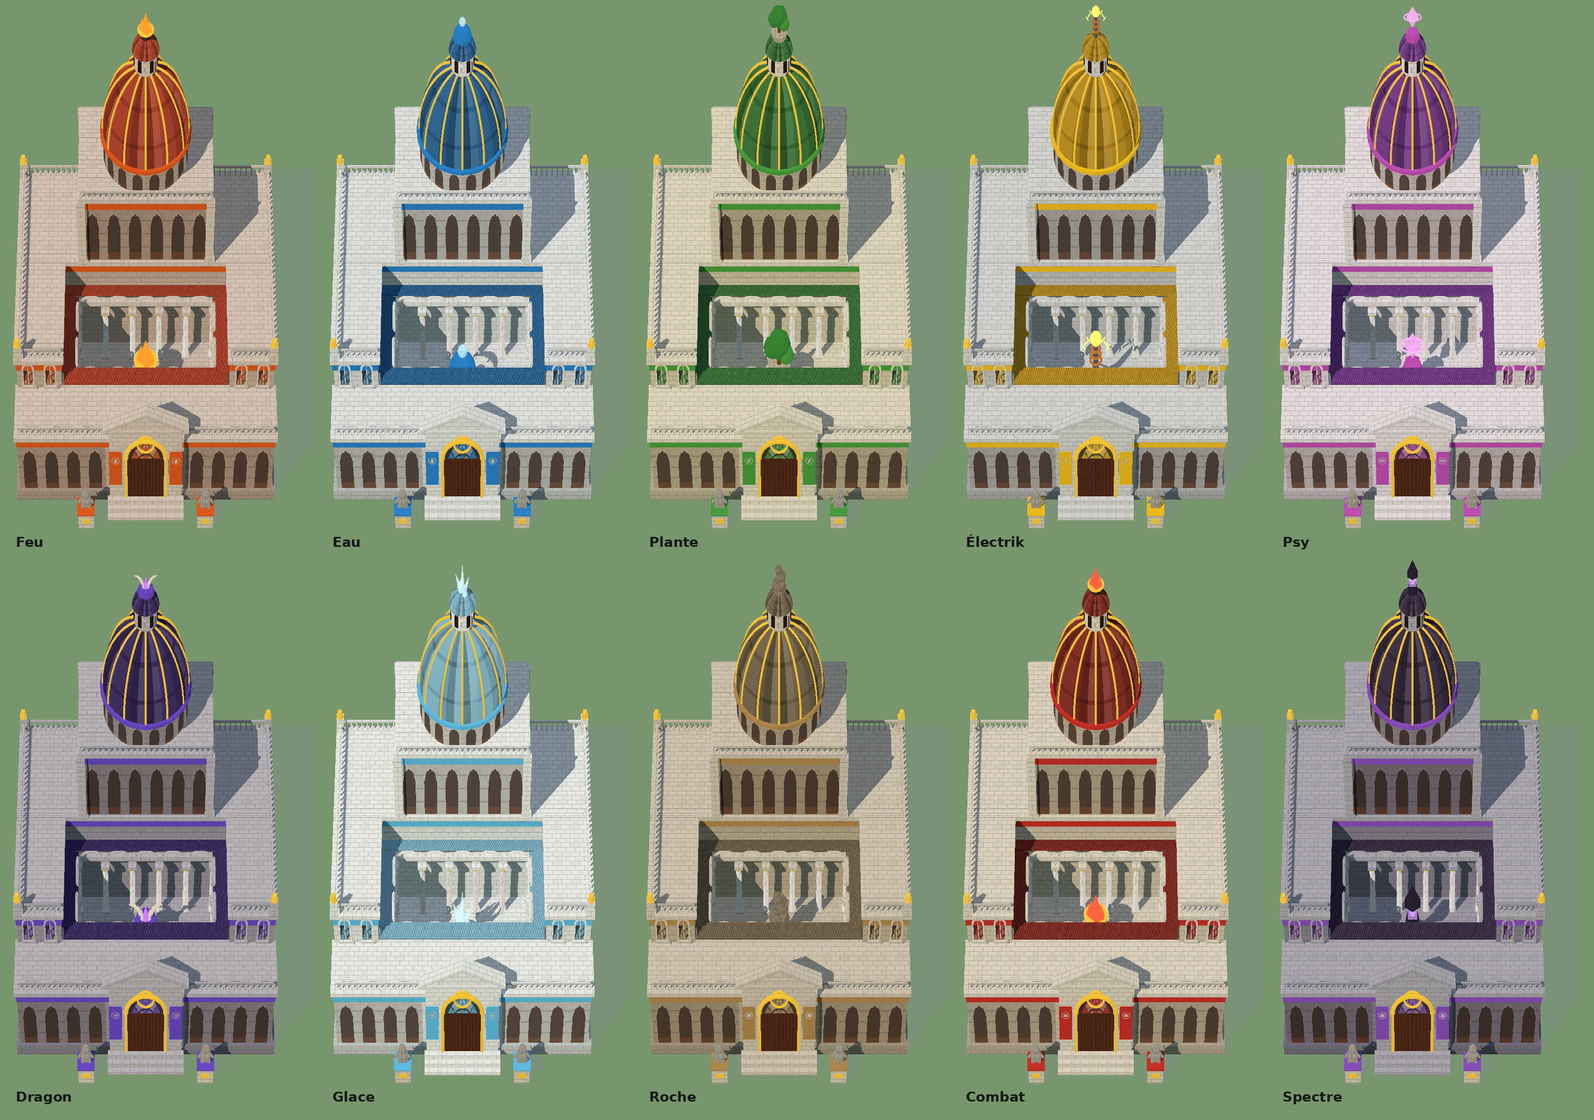
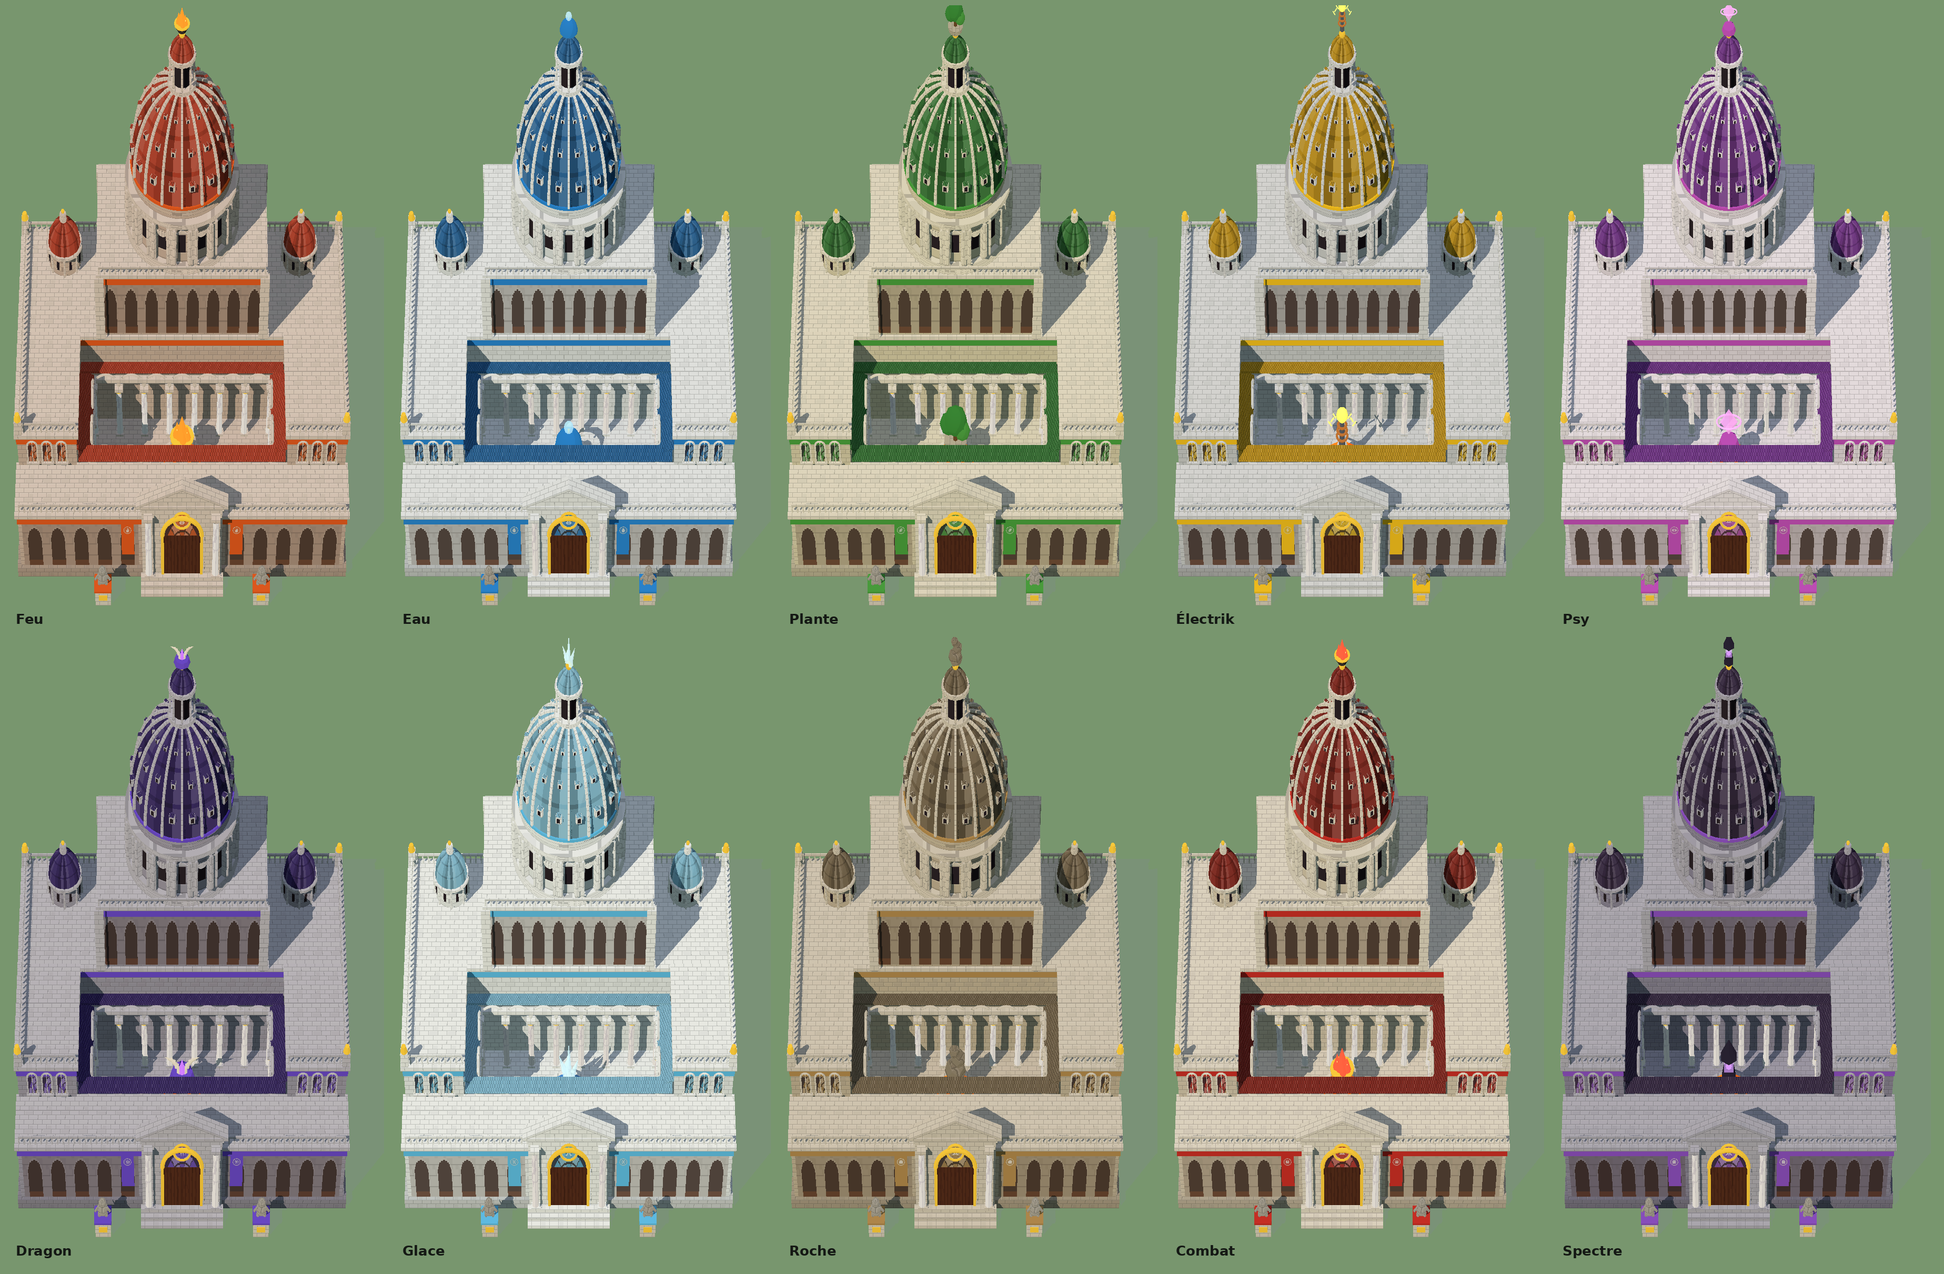
outils(odyssee): arène à cour élargie, dôme à la manière de Saint-Pierre et coupoles mineures [skip changelog]
Claude-Session: https://claude.ai/code/session_01E9CUaRG7xUjwzj1i4ypday

diff --git a/tools/pixelforge/modeles3d.js b/tools/pixelforge/modeles3d.js
@@ -1909,87 +1909,136 @@ export function atelier(D) {
     const t = TX.arcades(col).clone(); t.repeat.set(Math.max(1, Math.round(w / 1.2)), 1); t.needsUpdate = true;
     const p = new THREE.Mesh(new THREE.PlaneGeometry(w, h), M({ map: t })); p.rotation.y = ry; p.receiveShadow = true; G.add(at(p, x, y, z)); return p;
   }
-  /** arène à cour intérieure (14 × 14) : un palais de pierre bâti autour d'une cour à cloître (colonnade à arcs et galerie
-   *  couverte), feu ou ornement du type au milieu de la cour ; aile d'entrée basse à arcades pour que la cour se voie ;
-   *  grande salle au fond surmontée d'un second étage deux fois plus petit, ceint d'arcades, et d'un grand dôme nervuré
-   *  à lanternon ; terrasses à balustrades, frise de la couleur du type ; portail de 2 cases gardé par deux statues */
+  /** dôme à la manière de Saint-Pierre de Rome : haut tambour rythmé de contreforts à colonnes jumelées et de fenêtres à
+   *  frontons, attique, coupole ovoïde à seize côtes de pierre et trois rangs de lucarnes, lanternon à colonnettes */
+  function domeSaintPierre(G, cx, cz, y, rd, toit, pierre, acc, type) {
+    const PB = M({ map: TX.pierre(mix(pierre, 0.3)) }), PM = M({ map: TX.pierre(pierre) }), N = 16;
+    const ht = 1.9;
+    G.add(at(cyl(rd + 0.25, rd + 0.35, 0.35, PB, 48), cx, y + 0.17, cz));                   // socle du tambour
+    G.add(at(cyl(rd, rd, ht, PM, 48), cx, y + 0.35 + ht / 2, cz));
+    for (let i = 0; i < N; i++) {
+      const a = (i + 0.5) / N * Math.PI * 2, ca = Math.cos(a), sa = Math.sin(a), g2 = new THREE.Group();
+      g2.position.set(cx + ca * (rd + 0.12), y + 0.35, cz + sa * (rd + 0.12)); g2.rotation.y = -a + Math.PI / 2;
+      g2.add(at(boite(0.5, ht, 0.25, PB), 0, ht / 2, 0));                                    // contrefort
+      for (const s of [-1, 1]) g2.add(at(cyl(0.07, 0.08, ht - 0.2, PB, 8), s * 0.17, ht / 2, 0.17));   // colonnes jumelées
+      G.add(g2);
+      const b = (i + 1) / N * Math.PI * 2, cb = Math.cos(b), sb = Math.sin(b), f = new THREE.Group();
+      f.position.set(cx + cb * (rd + 0.02), y + 0.35, cz + sb * (rd + 0.02)); f.rotation.y = -b + Math.PI / 2;
+      f.add(at(boite(0.42, 0.85, 0.04, COL('#2a2228')), 0, ht * 0.5, 0));
+      if (i % 2) { const p = extr([[-0.3, 0], [0.3, 0], [0, 0.22]], 0.08, PB); f.add(at(p, 0, ht * 0.5 + 0.5, -0.02)); }
+      else { const p = new THREE.Mesh(new THREE.CylinderGeometry(0.3, 0.3, 0.08, 10, 1, false, -Math.PI / 2, Math.PI), PB); p.rotation.x = Math.PI / 2; f.add(at(p, 0, ht * 0.5 + 0.5, 0.02)); }
+      G.add(f);
+    }
+    const ya = y + 0.35 + ht;
+    G.add(at(cyl(rd + 0.3, rd + 0.3, 0.22, PB, 48), cx, ya + 0.11, cz));                      // corniche
+    G.add(at(cyl(rd - 0.05, rd - 0.05, 0.55, PM, 48), cx, ya + 0.5, cz));                     // attique
+    G.add(at(cyl(rd + 0.02, rd + 0.02, 0.12, COL(acc), 48), cx, ya + 0.75, cz));
+    // coupole ovoïde
+    const yc = ya + 0.8, hd = rd * 1.3, prof = [];
+    for (let k = 0; k <= 12; k++) { const t = k / 12, ang = t * Math.PI / 2; prof.push([rd * 0.98 * Math.cos(ang) ** 0.85, hd * Math.sin(ang)]); }
+    prof.push([0, hd]);
+    G.add(at(lathe(prof, M({ map: TX.canal(toit) }), 48), cx, yc, cz));
+    for (let i = 0; i < N; i++) {                                                           // côtes de pierre
+      const a = i / N * Math.PI * 2, g2 = new THREE.Group(); g2.position.set(cx, yc, cz); g2.rotation.y = -a;
+      for (let k = 0; k < 12; k++) { const [r0, h0] = prof[k], [r1, h1] = prof[k + 1], L = Math.hypot(r1 - r0, h1 - h0) + 0.02, c = boite(0.16, L, 0.12, PB); c.rotation.z = Math.atan2(r0 - r1, h1 - h0); g2.add(at(c, (r0 + r1) / 2 + 0.03, (h0 + h1) / 2, 0)); }
+      G.add(g2);
+      for (const [kk, sz] of [[2, 0.26], [5, 0.2], [8, 0.15]]) {                              // lucarnes entre les côtes
+        const b = (i + 0.5) / N * Math.PI * 2, [r, h] = prof[kk], l = new THREE.Group(); l.position.set(cx + Math.cos(b) * (r + 0.02), yc + h, cz + Math.sin(b) * (r + 0.02)); l.rotation.y = -b + Math.PI / 2;
+        l.add(at(boite(sz * 1.2, sz * 1.3, sz, PB), 0, 0, 0)); l.add(at(boite(sz * 0.6, sz * 0.7, 0.02, COL('#2a2228')), 0, -0.02, sz / 2 + 0.01));
+        l.add(at(new THREE.Mesh(new THREE.ConeGeometry(sz * 0.8, sz * 0.5, 4), M({ map: TX.canal(toit) })), 0, sz * 0.85, 0).rotateY(Math.PI / 4));
+        G.add(l);
+      }
+    }
+    // lanternon : anneau, colonnettes, petite coupole, boule, ornement du type
+    const yl = yc + hd - 0.05;
+    G.add(at(cyl(0.75, 0.75, 0.2, PB, 16), cx, yl + 0.1, cz));
+    G.add(at(cyl(0.48, 0.48, 1.1, COL('#2a2228'), 16), cx, yl + 0.75, cz));
+    for (let i = 0; i < 8; i++) { const a = i / 8 * Math.PI * 2; G.add(at(cyl(0.06, 0.07, 1.1, PB, 6), cx + Math.cos(a) * 0.62, yl + 0.75, cz + Math.sin(a) * 0.62)); }
+    G.add(at(cyl(0.72, 0.72, 0.16, PB, 16), cx, yl + 1.35, cz));
+    G.add(at(lathe([[0.62, 0], [0.55, 0.3], [0.3, 0.6], [0.08, 0.72], [0, 0.72]], M({ map: TX.canal(toit) }), 16), cx, yl + 1.43, cz));
+    G.add(at(new THREE.Mesh(new THREE.SphereGeometry(0.16, 10, 8), OR), cx, yl + 2.25, cz));
+    const o = new THREE.Group(); o.scale.setScalar(0.65); G.add(o); sommetType(o, type, cx / 0.65, (yl + 2.4) / 0.65, cz / 0.65, acc);
+    return yl + 2.4;
+  }
+  /** petite coupole latérale (comme les deux coupoles mineures de Saint-Pierre) */
+  function coupoleMineure(G, cx, cz, y, r, toit, pierre) {
+    const PB = M({ map: TX.pierre(mix(pierre, 0.3)) });
+    G.add(at(cyl(r, r, 0.9, M({ map: TX.pierre(pierre) }), 20), cx, y + 0.45, cz));
+    for (let i = 0; i < 8; i++) { const a = i / 8 * Math.PI * 2; G.add(at(cyl(0.05, 0.06, 0.85, PB, 6), cx + Math.cos(a) * (r + 0.05), y + 0.45, cz + Math.sin(a) * (r + 0.05))); G.add(at(boite(0.14, 0.4, 0.03, COL('#2a2228')), cx + Math.cos(a + 0.4) * (r + 0.01), y + 0.5, cz + Math.sin(a + 0.4) * (r + 0.01)).rotateY(-a - 0.4 + Math.PI / 2)); }
+    G.add(at(cyl(r + 0.12, r + 0.12, 0.12, PB, 20), cx, y + 0.95, cz));
+    G.add(at(lathe([[r, 0], [r * 0.9, r * 0.6], [r * 0.6, r * 1.05], [0.2, r * 1.3], [0, r * 1.32]], M({ map: TX.canal(toit) }), 20), cx, y + 1.0, cz));
+    G.add(at(cyl(0.18, 0.2, 0.4, PB, 8), cx, y + 1.0 + r * 1.32 + 0.15, cz)); G.add(at(new THREE.Mesh(new THREE.SphereGeometry(0.1, 8, 6), OR), cx, y + 1.0 + r * 1.32 + 0.45, cz));
+  }
+  /** arène à cour intérieure (18 × 16) : un palais de pierre bâti autour d'une cour à cloître (colonnade à arcs et galerie
+   *  couverte), ornement du type au milieu de la cour ; aile d'entrée basse à arcades pour que la cour se voie ; grande
+   *  salle au fond surmontée d'un second étage deux fois plus étroit ceint d'arcades, puis d'un grand dôme à la manière de
+   *  Saint-Pierre de Rome flanqué de deux coupoles mineures ; terrasses à balustrades, frise de la couleur du type ;
+   *  portail de 2 cases gardé par deux statues */
   B.areneCour = ({ type = 'feu', ...autres } = {}) => {
     const T = { ...(ARENES[type] || ARENES.feu), ...autres }, acc = T.acc, A = COL(acc);
-    const G = new THREE.Group(), W = 14, cx = 7;
+    const G = new THREE.Group(), W = 18, cx = 9, ZF = 14;           // façade à z = 14
     const PM = M({ map: TX.pierre(T.pierre) }), PB = M({ map: TX.pierre(mix(T.pierre, 0.35)) }), PS = M({ map: TX.pierre(mix(T.pierre, -0.15)) }), MA = M({ map: TX.marbre() });
-    const y0 = 0.5, H1 = 4.6, H0 = 3.0;
-    G.add(at(boite(W + 0.4, y0, 13.4, PS), cx, y0 / 2, 6.5));
-    // cour : dallage, bassin central
-    G.add(at(boite(9.2, 0.05, 5.4, M({ map: TX.pierre(mix(T.pierre, 0.2)) })), cx, y0 + 0.02, 7.7));
-    // aile du fond (grande salle), ailes latérales, aile d'entrée basse
-    G.add(at(boite(W, H1, 5, PM), cx, y0 + H1 / 2, 2.5));
-    for (const x of [1.2, 12.8]) G.add(at(boite(2.4, H1, 5.4, PM), x, y0 + H1 / 2, 7.7));
-    G.add(at(boite(W, H0, 2.6, PM), cx, y0 + H0 / 2, 11.7));
-    // frises, corniches, balustrades des terrasses
+    const y0 = 0.5, H1 = 4.8, H0 = 3.0, DB = 6, LW = 3.2, zc0 = DB, zc1 = ZF - 2.6;      // aile du fond 0 → 6, cour 6 → 11,4
+    G.add(at(boite(W + 0.4, y0, ZF + 0.4, PS), cx, y0 / 2, ZF / 2));
+    G.add(at(boite(W - 2 * LW, 0.05, zc1 - zc0, M({ map: TX.pierre(mix(T.pierre, 0.2)) })), cx, y0 + 0.02, (zc0 + zc1) / 2));
+    G.add(at(boite(W, H1, DB, PM), cx, y0 + H1 / 2, DB / 2));
+    for (const x of [LW / 2, W - LW / 2]) G.add(at(boite(LW, H1, zc1 - zc0, PM), x, y0 + H1 / 2, (zc0 + zc1) / 2));
+    G.add(at(boite(W, H0, 2.6, PM), cx, y0 + H0 / 2, zc1 + 1.3));
     const corniche = (x, z, w, d, y) => { G.add(at(boite(w + 0.1, 0.32, d + 0.1, A), x, y - 0.3, z)); G.add(at(boite(w + 0.3, 0.18, d + 0.3, PB), x, y + 0.02, z)); };
-    corniche(cx, 2.5, W, 5, y0 + H1); for (const x of [1.2, 12.8]) corniche(x, 7.7, 2.4, 5.4, y0 + H1); corniche(cx, 11.7, W, 2.6, y0 + H0);
+    corniche(cx, DB / 2, W, DB, y0 + H1); for (const x of [LW / 2, W - LW / 2]) corniche(x, (zc0 + zc1) / 2, LW, zc1 - zc0, y0 + H1); corniche(cx, zc1 + 1.3, W, 2.6, y0 + H0);
     const yt = y0 + H1 + 0.1;
-    balustrade(G, 0.1, 0.1, W - 0.1, 0.1, yt, PB, 0.45, 0.3); balustrade(G, 0.1, 0.1, 0.1, 10.3, yt, PB, 0.45, 0.3); balustrade(G, W - 0.1, 0.1, W - 0.1, 10.3, yt, PB, 0.45, 0.3);
-    balustrade(G, 0.1, 10.3, 2.4, 10.3, yt, PB, 0.45, 0.3); balustrade(G, 11.6, 10.3, W - 0.1, 10.3, yt, PB, 0.45, 0.3);
-    balustrade(G, 0.1, 12.9, W - 0.1, 12.9, y0 + H0 + 0.1, PB, 0.4, 0.3);
-    for (const [x, z] of [[0.1, 0.1], [W - 0.1, 0.1], [0.1, 10.3], [W - 0.1, 10.3]]) { G.add(at(boite(0.4, 0.7, 0.4, PB), x, yt + 0.35, z)); G.add(at(cyl(0.12, 0.2, 0.3, OR, 8), x, yt + 0.85, z)); }
-    // façade : arcades de l'aile d'entrée, fenêtres hautes des ailes
-    faceArcades(G, cx - 4.6, y0 + H0 / 2 - 0.15, 13.01, 4.8, H0 - 0.3, 0, T.pierre);
-    faceArcades(G, cx + 4.6, y0 + H0 / 2 - 0.15, 13.01, 4.8, H0 - 0.3, 0, T.pierre);
-    for (const x of [1.2, 12.8]) { fenArc(G, x - 0.6, y0 + H0 + 0.75, 10.4, 0.5, 0.9, PB, M({ map: TX.vitrail(acc) })); fenArc(G, x + 0.6, y0 + H0 + 0.75, 10.4, 0.5, 0.9, PB, M({ map: TX.vitrail(acc) })); }
-    // portail (2 cases) : avant-corps à arc, porte, emblème, bannières
-    G.add(at(boite(4.0, H0 + 0.9, 0.6, PB), cx, y0 + (H0 + 0.9) / 2, 13.1));
-    G.add(at(boite(2.0, 2.3, 0.05, M({ map: TX.bois('#5a3020') })), cx, y0 + 1.15, 13.42));
-    G.add(at(new THREE.Mesh(new THREE.CircleGeometry(1.0, 18, 0, Math.PI), M({ map: TX.vitrail(acc) })), cx, y0 + 2.3, 13.42));
-    G.add(at(new THREE.Mesh(new THREE.TorusGeometry(1.08, 0.12, 6, 18, Math.PI), OR), cx, y0 + 2.3, 13.45));
-    for (const s of [-1, 1]) G.add(at(boite(0.16, 2.3, 0.12, OR), cx + s * 1.08, y0 + 1.15, 13.45));
-    G.add(at(new THREE.Mesh(new THREE.CircleGeometry(0.42, 20), M({ map: emblemeTex(type, acc) })), cx, y0 + H0 + 0.15, 13.42)); G.add(at(new THREE.Mesh(new THREE.TorusGeometry(0.45, 0.06, 6, 20), OR), cx, y0 + H0 + 0.15, 13.44));
-    fronton(G, cx, y0 + H0 + 0.9, 13.4, 4.4, 0.9, 0.6, PB);
-    for (const s of [-1, 1]) { G.add(at(boite(0.7, 2.0, 0.03, A), cx + s * 1.65, y0 + 1.7, 13.42)); G.add(at(new THREE.Mesh(new THREE.CircleGeometry(0.22, 14), M({ map: emblemeTex(type, acc) })), cx + s * 1.65, y0 + 2.2, 13.45)); }
-    marches(G, cx, 13.4, 4.2, 3, y0 / 3, 0.3, PB);
-    // cloître : colonnes à arcs autour de la cour, galerie couverte de tuiles adossée aux ailes
-    const cx0 = 3.2, cx1 = 10.8, cz0 = 5.8, cz1 = 9.7, hc = 2.8, cols = [], pz2 = (cz1 - cz0) / 2;
-    for (let i = 0; i <= 5; i++) cols.push([cx0 + i * (cx1 - cx0) / 5, cz0]);
+    balustrade(G, 0.1, 0.1, W - 0.1, 0.1, yt, PB, 0.45, 0.3); balustrade(G, 0.1, 0.1, 0.1, zc1 - 0.1, yt, PB, 0.45, 0.3); balustrade(G, W - 0.1, 0.1, W - 0.1, zc1 - 0.1, yt, PB, 0.45, 0.3);
+    balustrade(G, 0.1, zc1 - 0.1, LW, zc1 - 0.1, yt, PB, 0.45, 0.3); balustrade(G, W - LW, zc1 - 0.1, W - 0.1, zc1 - 0.1, yt, PB, 0.45, 0.3);
+    balustrade(G, 0.1, ZF - 0.1, W - 0.1, ZF - 0.1, y0 + H0 + 0.1, PB, 0.4, 0.3);
+    for (const [x, z] of [[0.1, 0.1], [W - 0.1, 0.1], [0.1, zc1 - 0.1], [W - 0.1, zc1 - 0.1]]) { G.add(at(boite(0.4, 0.7, 0.4, PB), x, yt + 0.35, z)); G.add(at(cyl(0.12, 0.2, 0.3, OR, 8), x, yt + 0.85, z)); }
+    // façade : arcades, fenêtres hautes des ailes
+    faceArcades(G, cx - 5.6, y0 + H0 / 2 - 0.15, ZF + 0.01, 6.4, H0 - 0.3, 0, T.pierre);
+    faceArcades(G, cx + 5.6, y0 + H0 / 2 - 0.15, ZF + 0.01, 6.4, H0 - 0.3, 0, T.pierre);
+    for (const x of [LW / 2, W - LW / 2]) for (const dx of [-0.8, 0, 0.8]) fenArc(G, x + dx, y0 + H0 + 0.8, zc1, 0.45, 0.9, PB, M({ map: TX.vitrail(acc) }));
+    // portail
+    G.add(at(boite(4.4, H0 + 1.0, 0.6, PB), cx, y0 + (H0 + 1.0) / 2, ZF + 0.1));
+    G.add(at(boite(2.0, 2.3, 0.05, M({ map: TX.bois('#5a3020') })), cx, y0 + 1.15, ZF + 0.42));
+    G.add(at(new THREE.Mesh(new THREE.CircleGeometry(1.0, 18, 0, Math.PI), M({ map: TX.vitrail(acc) })), cx, y0 + 2.3, ZF + 0.42));
+    G.add(at(new THREE.Mesh(new THREE.TorusGeometry(1.08, 0.12, 6, 18, Math.PI), OR), cx, y0 + 2.3, ZF + 0.45));
+    for (const s of [-1, 1]) { G.add(at(boite(0.16, 2.3, 0.12, OR), cx + s * 1.08, y0 + 1.15, ZF + 0.45)); colonne(G, cx + s * 1.85, ZF + 0.55, y0, H0 + 0.6, 0.18, MA, PB); }
+    G.add(at(new THREE.Mesh(new THREE.CircleGeometry(0.42, 20), M({ map: emblemeTex(type, acc) })), cx, y0 + H0 + 0.2, ZF + 0.42)); G.add(at(new THREE.Mesh(new THREE.TorusGeometry(0.45, 0.06, 6, 20), OR), cx, y0 + H0 + 0.2, ZF + 0.44));
+    fronton(G, cx, y0 + H0 + 1.0, ZF + 0.4, 4.8, 1.0, 0.6, PB);
+    for (const s of [-1, 1]) { G.add(at(boite(0.7, 2.0, 0.03, A), cx + s * 3.0, y0 + 1.7, ZF + 0.03)); G.add(at(new THREE.Mesh(new THREE.CircleGeometry(0.22, 14), M({ map: emblemeTex(type, acc) })), cx + s * 3.0, y0 + 2.2, ZF + 0.06)); }
+    marches(G, cx, ZF + 0.4, 4.6, 3, y0 / 3, 0.3, PB);
+    // cloître
+    const cx0 = LW + 0.8, cx1 = W - LW - 0.8, cz0 = zc0 + 0.8, cz1 = zc1 - 0.7, hc = 2.8, nf = 7, pz2 = (cz1 - cz0) / 2, cols = [];
+    for (let i = 0; i <= nf; i++) cols.push([cx0 + i * (cx1 - cx0) / nf, cz0]);
     for (let i = 1; i <= 2; i++) { const z = cz0 + i * pz2; cols.push([cx0, z], [cx1, z]); }
-    for (let i = 1; i < 5; i++) cols.push([cx0 + i * (cx1 - cx0) / 5, cz1]);
+    for (let i = 1; i < nf; i++) cols.push([cx0 + i * (cx1 - cx0) / nf, cz1]);
     for (const [x, z] of cols) { colonne(G, x, z, y0, hc, 0.17, MA, PB); G.add(at(cyl(0.21, 0.21, 0.05, OR, 10), x, y0 + hc - 0.22, z)); }
     const arc = (x1, z1, x2, z2) => { const L = Math.hypot(x2 - x1, z2 - z1), a = new THREE.Mesh(new THREE.TorusGeometry(L / 2, 0.08, 4, 12, Math.PI), PB); a.rotation.y = -Math.atan2(z2 - z1, x2 - x1); G.add(at(a, (x1 + x2) / 2, y0 + hc - 0.05, (z1 + z2) / 2)); };
-    for (let i = 0; i < 5; i++) arc(cx0 + i * (cx1 - cx0) / 5, cz0, cx0 + (i + 1) * (cx1 - cx0) / 5, cz0);
+    const xi = (i) => cx0 + i * (cx1 - cx0) / nf;
+    for (let i = 0; i < nf; i++) arc(xi(i), cz0, xi(i + 1), cz0);
     for (let i = 0; i < 2; i++) { arc(cx0, cz0 + i * pz2, cx0, cz0 + (i + 1) * pz2); arc(cx1, cz0 + i * pz2, cx1, cz0 + (i + 1) * pz2); }
-    for (let i = 0; i < 5; i++) { if (i === 2) continue; arc(cx0 + i * (cx1 - cx0) / 5, cz1, cx0 + (i + 1) * (cx1 - cx0) / 5, cz1); }
+    for (let i = 0; i < nf; i++) { if (i === 3) continue; arc(xi(i), cz1, xi(i + 1), cz1); }
     const yg = y0 + hc + 0.55, TG = M({ map: TX.canalPetit(T.toit) });
     G.add(at(boite(cx1 - cx0 + 0.4, 0.2, 0.3, PB), cx, yg - 0.15, cz0)); G.add(at(boite(0.3, 0.2, cz1 - cz0, PB), cx0, yg - 0.15, (cz0 + cz1) / 2)); G.add(at(boite(0.3, 0.2, cz1 - cz0, PB), cx1, yg - 0.15, (cz0 + cz1) / 2));
     { const p = boite(cx1 - cx0 + 1.4, 0.08, 0.95, TG); p.rotation.x = -0.35; G.add(at(p, cx, yg + 0.12, cz0 - 0.4)); }
     for (const s of [-1, 1]) { const p = boite(0.95, 0.08, cz1 - cz0 + 0.4, TG); p.rotation.z = s * 0.35; G.add(at(p, (s < 0 ? cx0 : cx1) + s * 0.4, yg + 0.12, (cz0 + cz1) / 2 + 0.1)); }
     { const p = boite(cx1 - cx0 + 1.4, 0.08, 0.7, TG); p.rotation.x = 0.35; G.add(at(p, cx, yg + 0.05, cz1 + 0.35)); }
-    // centre de la cour : bassin octogonal et ornement du type
-    G.add(at(cyl(1.15, 1.25, 0.45, PB, 8), cx, y0 + 0.22, 7.75)); G.add(at(cyl(0.95, 0.95, 0.04, type === 'eau' || type === 'glace' ? M({ map: TX.eau() }) : LUM('#ff7a20', '#ff4a00'), 8), cx, y0 + 0.46, 7.75));
-    G.add(at(cyl(0.3, 0.4, 0.9, PB, 8), cx, y0 + 0.9, 7.75));
-    { const o = new THREE.Group(); o.scale.setScalar(1.1); G.add(o); sommetType(o, type, cx / 1.1, (y0 + 1.35) / 1.1, 7.75 / 1.1, acc); }
-    // second étage, deux fois plus petit (7 × 6) : arcades sur les quatre faces
-    const y2 = y0 + H1 + 0.1, H2 = 3.2, x2a = 3.5, x2b = 10.5, z2a = 0, z2b = 5;
-    G.add(at(boite(7, H2, 5, PM), cx, y2 + H2 / 2, 2.5));
-    faceArcades(G, cx, y2 + H2 / 2 - 0.1, z2b + 0.01, 7, H2 - 0.4, 0, T.pierre);
-    faceArcades(G, x2a - 0.01, y2 + H2 / 2 - 0.1, 2.5, 5, H2 - 0.4, -Math.PI / 2, T.pierre);
-    faceArcades(G, x2b + 0.01, y2 + H2 / 2 - 0.1, 2.5, 5, H2 - 0.4, Math.PI / 2, T.pierre);
-    for (const [x, z] of [[x2a, z2a], [x2b, z2a], [x2a, z2b], [x2b, z2b]]) G.add(at(boite(0.45, H2, 0.45, PB), x, y2 + H2 / 2, z));
-    corniche(cx, 2.5, 7, 5, y2 + H2);
-    balustrade(G, x2a, z2b + 0.05, x2b, z2b + 0.05, y2 + H2 + 0.1, PB, 0.35, 0.3);
-    // grand dôme : tambour à fenêtres, coupole nervurée, lanternon et ornement du type
-    const yd = y2 + H2 + 0.12, rd = 2.3;
-    const td = TX.arcades(mix(T.pierre, 0.2)).clone(); td.repeat.set(16, 1); td.needsUpdate = true;
-    G.add(at(new THREE.Mesh(new THREE.CylinderGeometry(rd, rd, 1.1, 32), [M({ map: td }), PB, PB]), cx, yd + 0.55, 2.5));
-    G.add(at(cyl(rd + 0.15, rd + 0.15, 0.16, A, 32), cx, yd + 1.15, 2.5));
-    const dome = lathe([[rd, 0], [rd * 0.99, 0.5], [rd * 0.92, 1.2], [rd * 0.76, 1.95], [rd * 0.52, 2.55], [rd * 0.24, 2.9], [0.45, 2.98], [0, 3.0]], M({ map: TX.canal(T.toit) }), 32);
-    G.add(at(dome, cx, yd + 1.2, 2.5));
-    for (let i = 0; i < 12; i++) { const a = i / 12 * Math.PI * 2, nv = new THREE.Mesh(new THREE.TorusGeometry(rd, 0.06, 4, 16, Math.PI / 2), OR); nv.scale.set(1, 3.0 / rd, 1); nv.rotation.y = -a; G.add(at(nv, cx, yd + 1.2, 2.5)); }
-    const yl = yd + 4.15;
-    G.add(at(cyl(0.6, 0.6, 0.8, PB, 12), cx, yl + 0.4, 2.5));
-    for (let i = 0; i < 6; i++) { const a = i / 6 * Math.PI * 2; G.add(at(boite(0.18, 0.5, 0.05, COL('#2a1a14')), cx + Math.cos(a) * 0.61, yl + 0.42, 2.5 + Math.sin(a) * 0.61).rotateY(-a + Math.PI / 2)); }
-    G.add(at(lathe([[0.72, 0], [0.6, 0.3], [0.3, 0.55], [0, 0.6]], M({ map: TX.canal(T.toit) }), 16), cx, yl + 0.8, 2.5));
-    { const o = new THREE.Group(); o.scale.setScalar(0.7); G.add(o); sommetType(o, type, cx / 0.7, (yl + 1.35) / 0.7, 2.5 / 0.7, acc); }
-    // gardiens de l'entrée
-    statueArene(G, cx - 3.3, 14.3, 0.95, acc); statueArene(G, cx + 3.3, 14.3, 0.95, acc);
+    // centre de la cour
+    const zm = (zc0 + zc1) / 2;
+    G.add(at(cyl(1.3, 1.4, 0.45, PB, 8), cx, y0 + 0.22, zm)); G.add(at(cyl(1.1, 1.1, 0.04, type === 'eau' || type === 'glace' ? M({ map: TX.eau() }) : LUM('#ff7a20', '#ff4a00'), 8), cx, y0 + 0.46, zm));
+    G.add(at(cyl(0.3, 0.4, 0.9, PB, 8), cx, y0 + 0.9, zm));
+    { const o = new THREE.Group(); o.scale.setScalar(1.1); G.add(o); sommetType(o, type, cx / 1.1, (y0 + 1.35) / 1.1, zm / 1.1, acc); }
+    // second étage, deux fois plus étroit (9 × 6) : arcades
+    const y2 = y0 + H1 + 0.1, H2 = 3.2, W2 = 9, x2a = cx - W2 / 2, x2b = cx + W2 / 2;
+    G.add(at(boite(W2, H2, DB, PM), cx, y2 + H2 / 2, DB / 2));
+    faceArcades(G, cx, y2 + H2 / 2 - 0.1, DB + 0.01, W2, H2 - 0.4, 0, T.pierre);
+    faceArcades(G, x2a - 0.01, y2 + H2 / 2 - 0.1, DB / 2, DB, H2 - 0.4, -Math.PI / 2, T.pierre);
+    faceArcades(G, x2b + 0.01, y2 + H2 / 2 - 0.1, DB / 2, DB, H2 - 0.4, Math.PI / 2, T.pierre);
+    for (const [x, z] of [[x2a, 0], [x2b, 0], [x2a, DB], [x2b, DB]]) G.add(at(boite(0.5, H2, 0.5, PB), x, y2 + H2 / 2, z));
+    corniche(cx, DB / 2, W2, DB, y2 + H2);
+    balustrade(G, x2a, DB + 0.05, x2b, DB + 0.05, y2 + H2 + 0.1, PB, 0.35, 0.3);
+    // grand dôme à la Saint-Pierre et deux coupoles mineures sur la terrasse
+    domeSaintPierre(G, cx, DB / 2, y2 + H2 + 0.12, 2.75, T.toit, T.pierre, acc, type);
+    for (const s of [-1, 1]) coupoleMineure(G, cx + s * 6.6, 1.8, yt, 0.9, T.toit, T.pierre);
+    statueArene(G, cx - 4.4, ZF + 1.3, 0.95, acc); statueArene(G, cx + 4.4, ZF + 1.3, 0.95, acc);
     return G;
   };
 
@@ -2274,7 +2323,7 @@ export const EMPRISES = {
   maison: [4, 3], maisonL: [5, 5], maisonLongue: [5, 3], maisonHaute: [4, 4], maisonExt: [7, 4], chalet: [5, 5], residence: [6, 4],
   cabaneChasseur: [4, 3], cabanePecheur: [5, 4], grange: [6, 5], moulin: [4, 4], phare: [3, 3], auberge: [6, 5], chapelle: [4, 7],
   boulangerie: [4, 4], maisonThe: [5, 5], gare: [8, 4], kiosque: [4, 5], puits: [2, 2], etal: [2, 2],
-  mairie: [9, 6], fontaine: [3, 3], centre: [7, 5], boutique: [5, 6], arene: [12, 11], areneFeu: [12, 11], pavillonFeu: [12, 11], areneCour: [14, 15], labo: [10, 8],
+  mairie: [9, 6], fontaine: [3, 3], centre: [7, 5], boutique: [5, 6], arene: [12, 11], areneFeu: [12, 11], pavillonFeu: [12, 11], areneCour: [18, 16], labo: [10, 8],
   pagode: [11, 12], pavillon: [8, 7], tour: [8, 5], tourVerre: [10, 7], tourDeco: [8, 8], bourse: [12, 9], casino: [14, 10], ligue: [30, 49],
   escalierMontant: [1, 2], escalierDescendant: [1, 2],
 };
